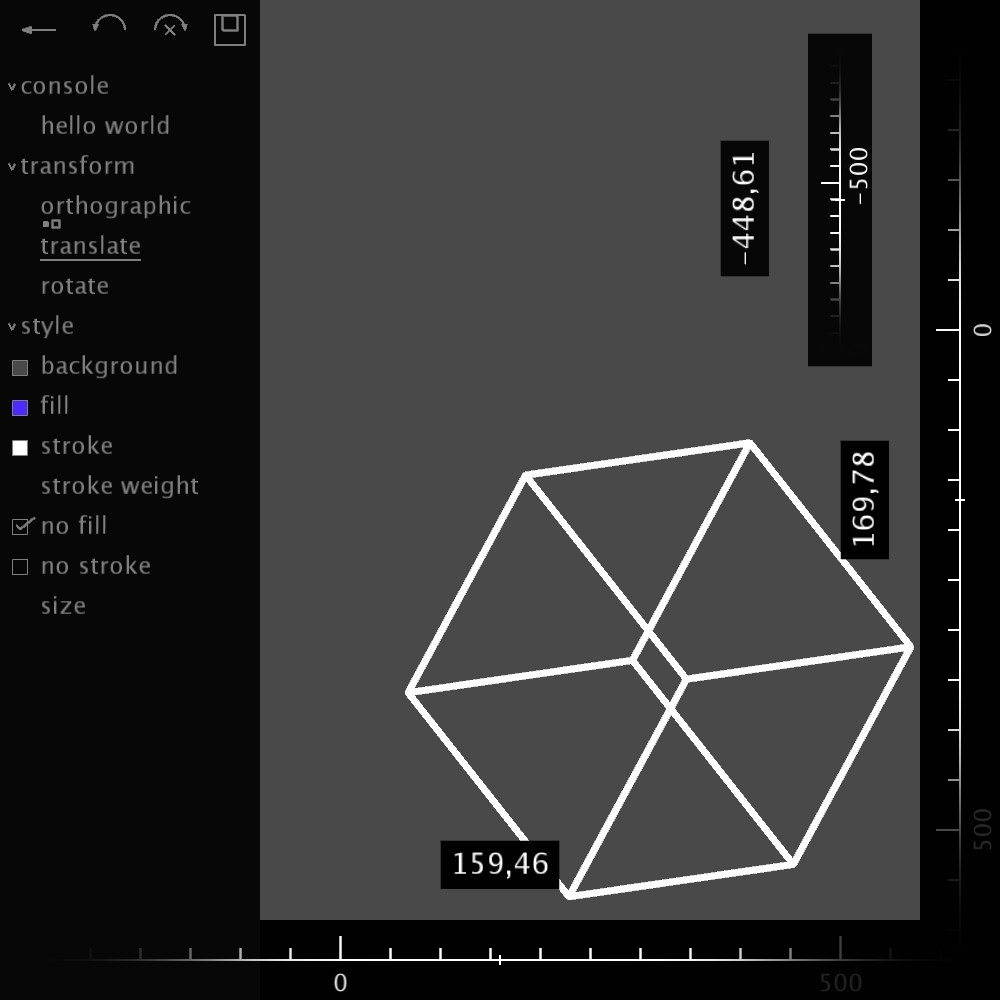
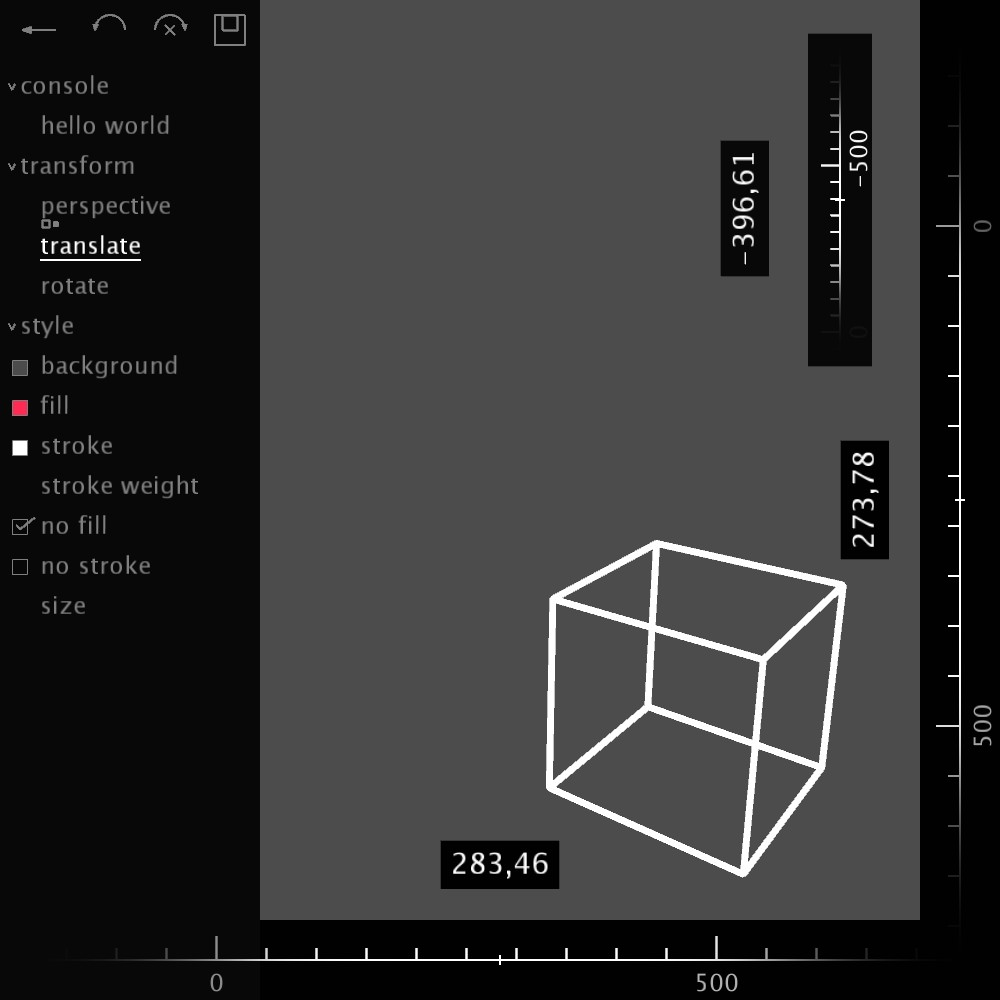
readme

diff --git a/README.md b/README.md
@@ -13,7 +13,10 @@ The finished animations can be found on my [Instagram](https://www.instagram.com
 
 ## GUI
 
-All of my sketches use a GUI I built on top of Processing along with a number of other utility functions. It has the following control elements:
+All of my sketches use a GUI I built on top of Processing along with a number of other utility functions. 
+None of the control elements need to be initialized in setup, they are created behind the scenes when first queried.
+The gui expects you to call gui() at the end of your draw() function to update and display itself.
+The following examples showcase all of the control elements using the [GuiExample](https://github.com/KrabCode/Sketches/blob/6de7fe44399360e101e28813ee166d17f89c3d5c/src/GuiExample.java) sketch.
 
 ### Button
 A button is true for one frame when pressed.
@@ -22,5 +25,37 @@ if (button("hello world")) {
     println("Hello, world!");
 }
 ```
-<img src="https://github.com/KrabCode/Sketches/blob/6de7fe44399360e101e28813ee166d17f89c3d5c/readme/01_button.jpg?raw=true" width="600" alt="Hello, world!">
+<img src="https://github.com/KrabCode/Sketches/blob/6de7fe44399360e101e28813ee166d17f89c3d5c/readme/01_button.jpg?raw=true" width="600" alt="Button">
 
+### Toggle
+A toggle holds its boolean value and changes it when pressed.
+
+```java
+if (toggle("no fill")) {
+    noFill();
+}
+```
+<img src="https://github.com/KrabCode/Sketches/blob/6de7fe44399360e101e28813ee166d17f89c3d5c/readme/02_toggle.jpg?raw=true" width="600" alt="Toggle">
+
+### Options
+
+A list of strings that returns the currently selected string and changes the selection when pressed.
+
+```java
+String projection = options("perspective", "orthographic");
+if (projection.equals("perspective")) {
+    perspective();
+} else if (projection.equals("orthographic")) {
+    ortho();
+}
+```
+<img src="https://github.com/KrabCode/Sketches/blob/6de7fe44399360e101e28813ee166d17f89c3d5c/readme/03_options.jpg?raw=true" width="600" alt="Options">
+
+### Slider
+
+An infinite slider with variable precision. Returns the current float value.
+
+```java
+strokeWeight(slider("stroke weight"));
+```
+<img src="https://github.com/KrabCode/Sketches/blob/6de7fe44399360e101e28813ee166d17f89c3d5c/readme/04_slider.jpg?raw=true" width="600" alt="Slider">
